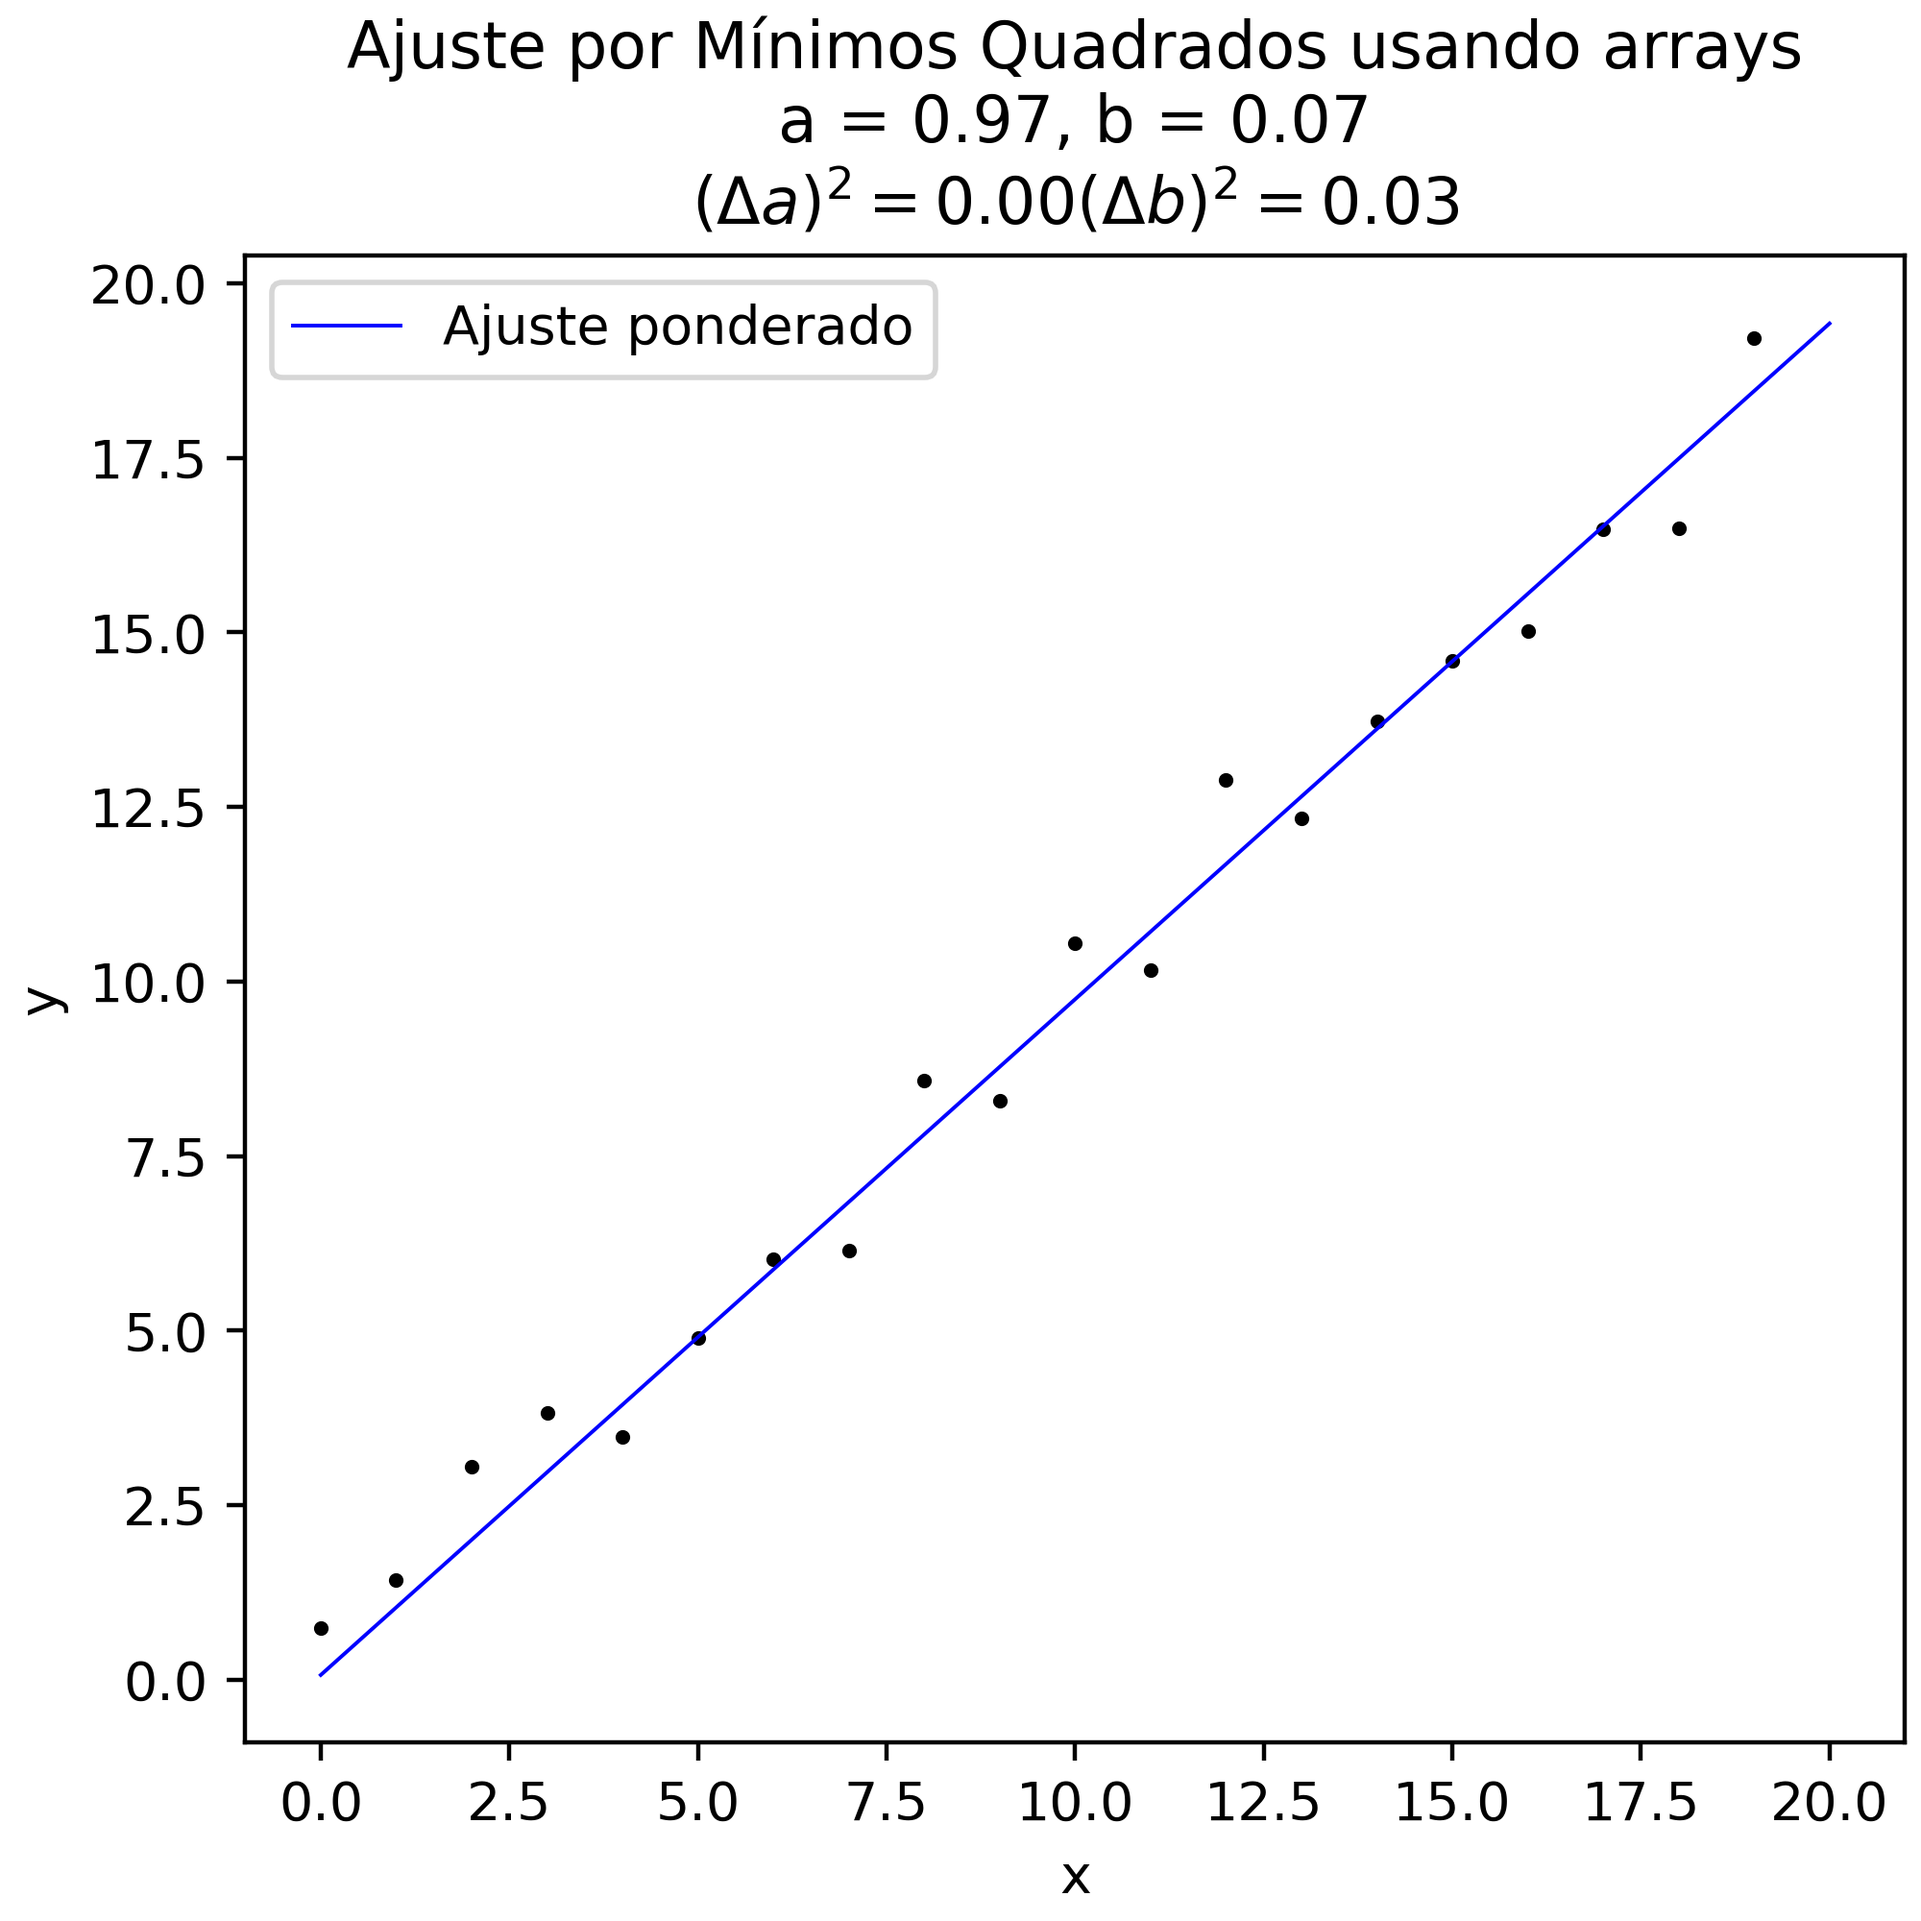
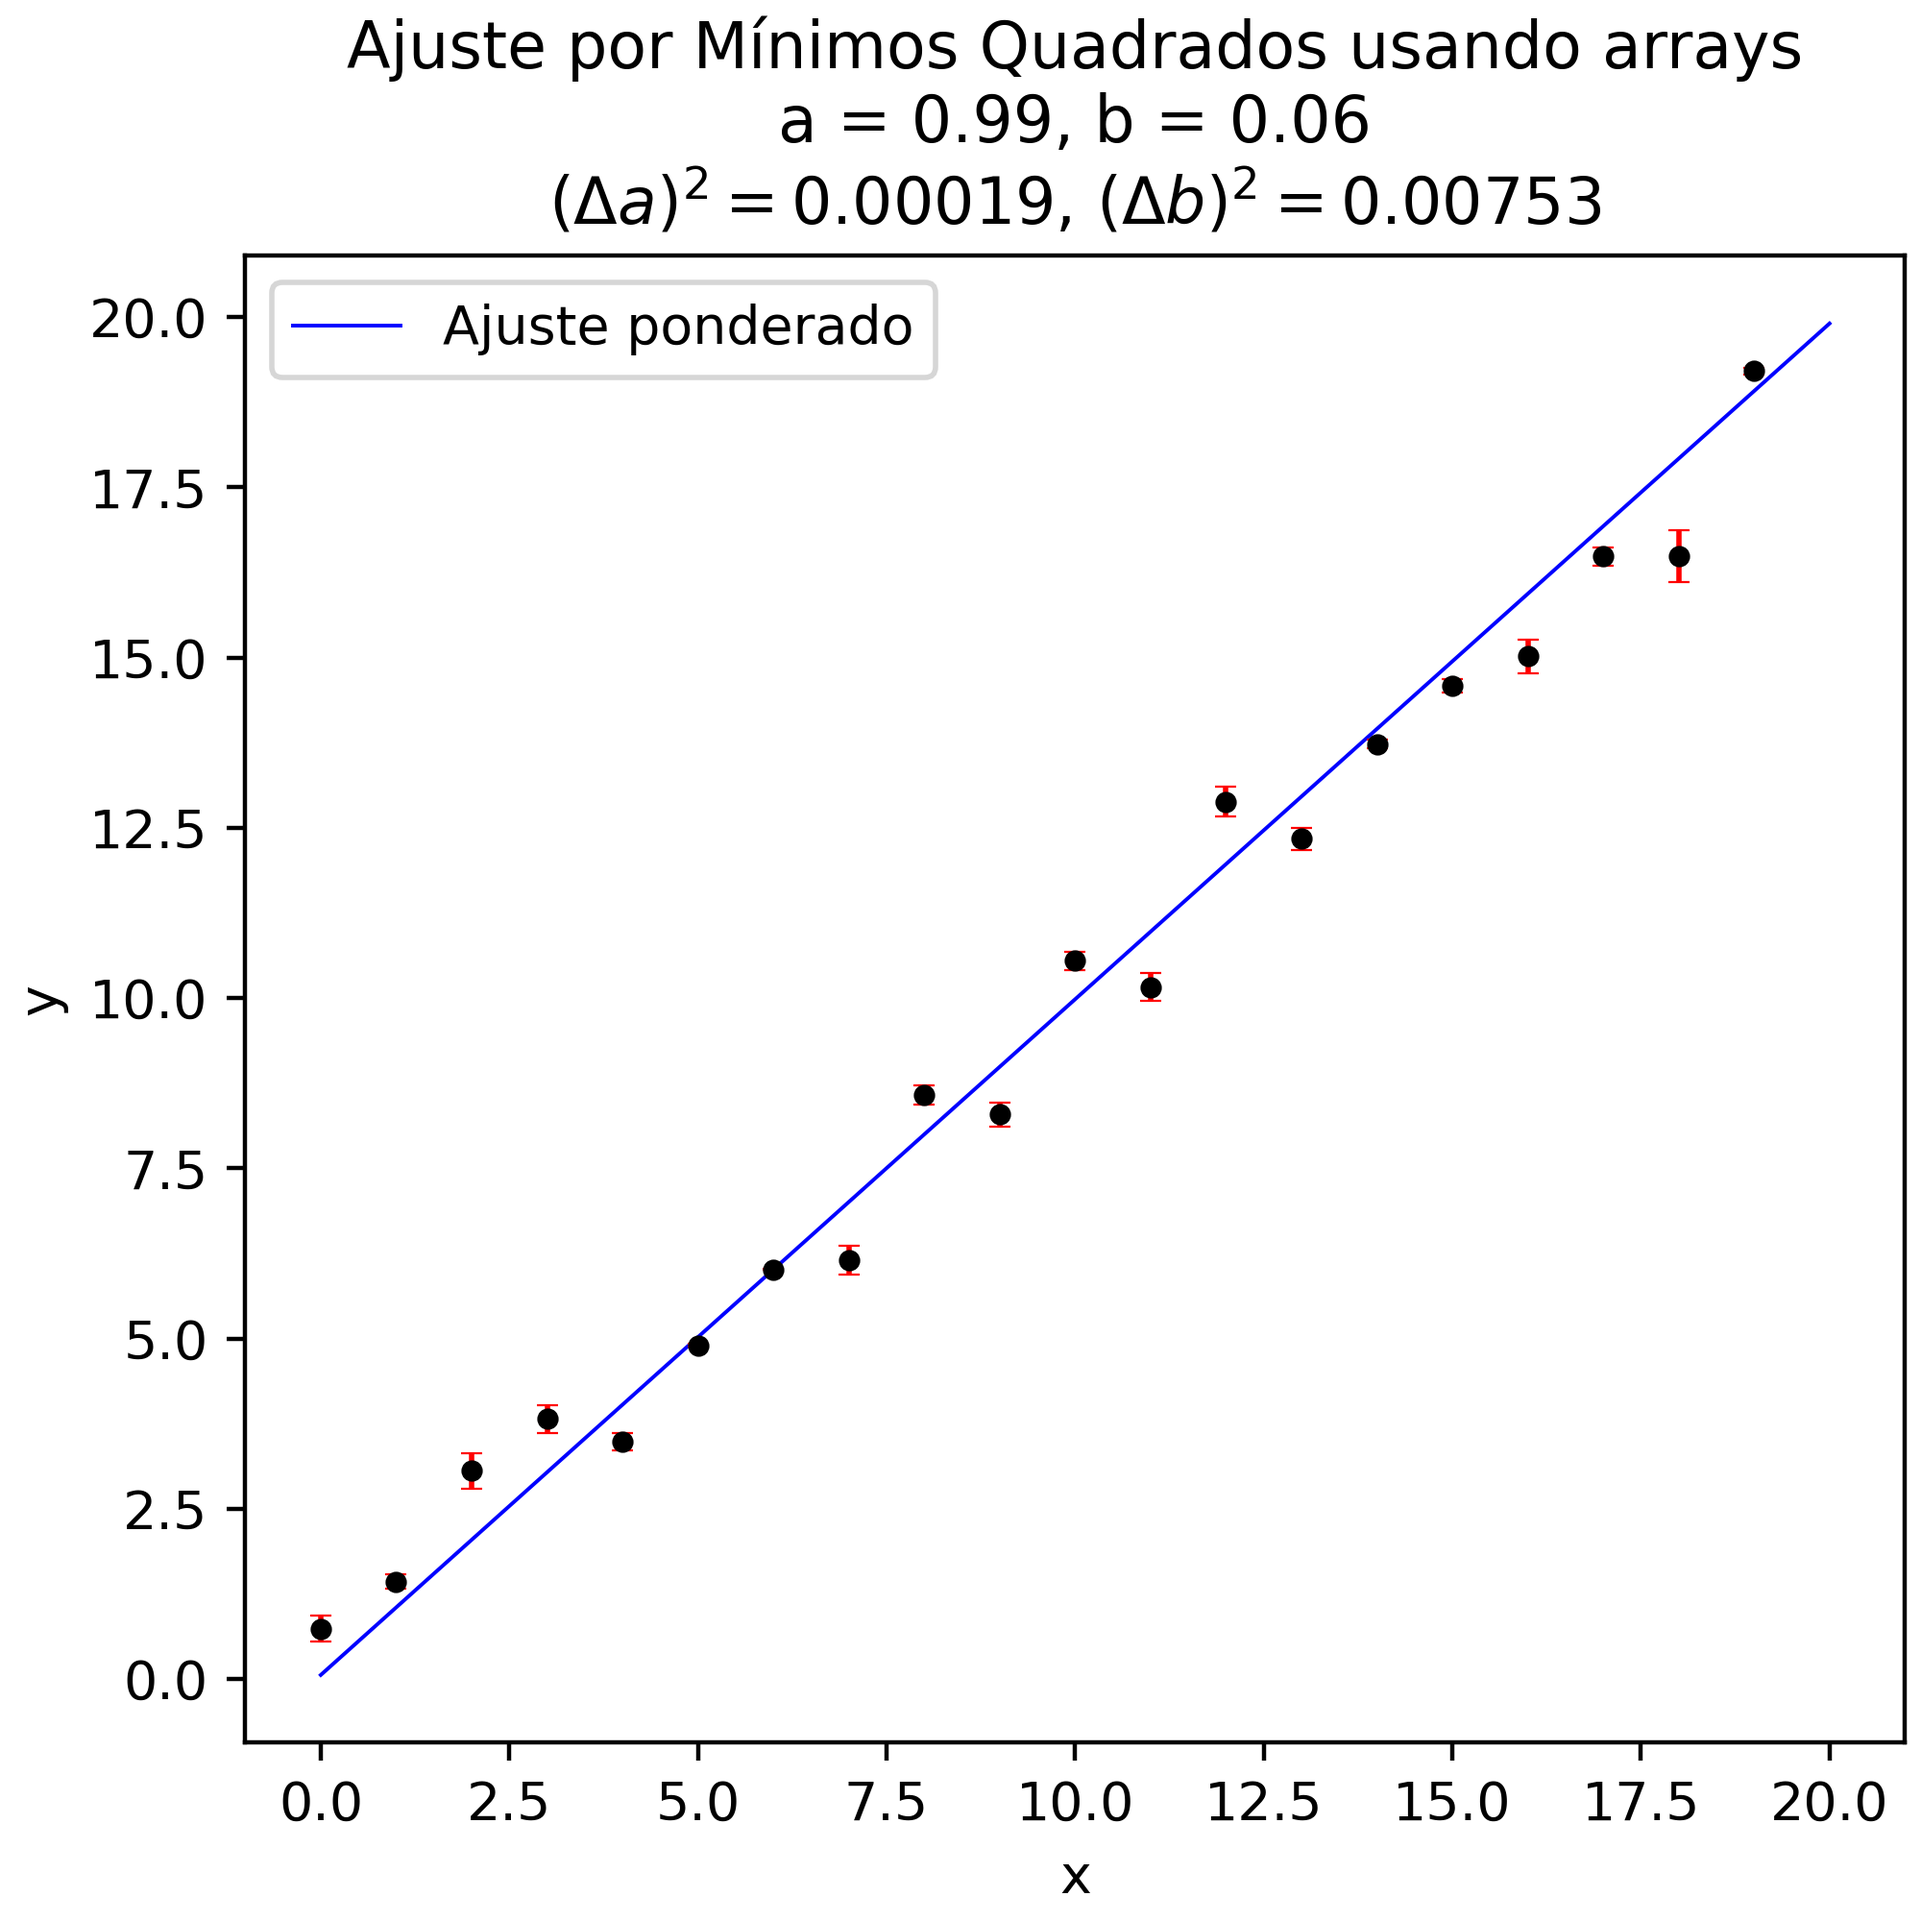
Atualização

diff --git a/atividades/trabalho1/listas-regressao-linear.py b/atividades/trabalho1/listas-regressao-linear.py
@@ -1,27 +1,17 @@
 import numpy as np
 import matplotlib.pyplot as plt
-
 np.random.seed(666)
-erroy = list(np.random.normal(0, 0.9, 20))
 
-x = list(range(0, 20))
+n = 20
+erroy = list(np.random.normal(0, 0.9, n))
+
+# Dados
+x = list(range(0, n))
 y = list(i + erroy[i] for i in x)
-n = len(x)
+deltay = list(abs(erroy[i])/4 for i in range(n))
 
-# O 'm' no nome significa a média dessas grandezas
-xm = sum(x)/n
-ym = sum(y)/n
-x2m = sum(list(x[i]**2 for i in range(n)))/n
-xym = sum(list(x[i]*y[i] for i in range(n)))/n
-delta = (x2m*n) - (xm*xm)
-
-# a = coeficiente angular
-a = ((xym*n) - (xm*ym))/delta
-# b = coeficiente linear
-b = ((x2m*ym) - (xym*xm))/delta
-
-# Chi^2 e as quantidades ponderadas
-w = list((y[i] - a*x[i] - b)**(-2) for i in range(n))
+# Definição de quantidades ponderadas
+w = list(deltay[i]**(-2) for i in range(n))
 wm = sum(w)/n
 xwm = sum(list(x[i]*w[i] for i in range(n)))/n
 x2wm = sum(list((x[i]**2)*w[i] for i in range(n)))/n
@@ -37,23 +27,24 @@ bpond = (ywm*x2wm - xywm*xwm)/deltapond
 xpond = list(0 + (0.1*i) for i in range(201))
 ypond = list(apond*xpond[i] + bpond for i in range(len(xpond)))
 
+# Erro dos coeficientes
 deltaa2 = wm/deltapond
 deltab2 = x2wm/deltapond
 
 fig, ax = plt.subplots(1, 1, figsize=(5, 5), layout='constrained')
 
-plt.scatter(x, y, s=3, c='k', zorder=3)
+plt.errorbar(x, y, yerr=deltay, ecolor='r', fmt='.k', elinewidth=1, capsize=2, capthick=0.4, zorder=3)
 plt.plot(xpond, ypond, 'b', linewidth=0.7, label='Ajuste ponderado', zorder=2)
 plt.plot()
 plt.legend()
-plt.title('Ajuste por Mínimos Quadrados usando listas\n'+f'a = {apond:.2f}, b = {bpond:.2f}\n'+r'$(\Delta a)^2 = $'+f'{deltaa2:2f}, '+r'$(\Delta b)^2 = $'+f'{deltab2:.2f}')
+plt.title('Ajuste por Mínimos Quadrados usando listas\n'+f'a = {apond:.2f}, b = {bpond:.2f}\n'+r'$(\Delta a)^2 = $'+f'{deltaa2:.5f}, '+r'$(\Delta b)^2 = $'+f'{deltab2:.5f}')
 plt.xlabel('x')
 plt.ylabel('y')
 plt.savefig('ajuste-listas.png', dpi=400)
 
 f = open('dados-trabalho1.csv', 'w')
-f.write('x,y,w_i\n')
+f.write('x,y,y_err\n')
 for i in range(n):
-    f.write(f'{x[i]},{y[i]},{w[i]}\n')
+    f.write(f'{x[i]},{y[i]},{deltay[i]}\n')
 f.close()
 

diff --git a/atividades/trabalho1/arrays-regressao-linear.py b/atividades/trabalho1/arrays-regressao-linear.py
@@ -1,27 +1,16 @@
 import matplotlib.pyplot as plt
 import numpy as np
-
 np.random.seed(666)
-erroy = np.random.normal(0, 0.9, 20)
 
-x = np.arange(0, 20, 1)
+n = 20
+erroy = np.random.normal(0, 0.9, n)
+
+x = np.arange(0, n, 1)
 y = x + erroy
-n = len(x)
+deltay = abs(erroy/4)
 
-# Definição das médias
-xm = sum(x)/n
-ym = sum(y)/n
-x2m = sum(x**2)/n
-xym = sum(x*y)/n
-delta = (x2m*n) - (xm*xm)
-
-# Coeficiente angular
-a = ((xym*n) - (xm*ym))/delta
-# Coeficiente linear
-b = ((x2m*ym) - (xym*xm))/delta
-
-# Definição das médias ponderadas
-w = (y - a*x - b)**(-2)
+# Definição das quantidades ponderadas
+w = deltay**(-2)
 wm = sum(w)/n
 xwm = sum(x*w)/n
 x2wm = sum((x**2)*w)/n
@@ -37,17 +26,18 @@ bpond = (ywm*x2wm - xywm*xwm)/deltapond
 xpond = np.linspace(0, 20, 100)
 ypond = apond*xpond + bpond
 
+# Erro dos coeficientes
 deltaa2 = wm/deltapond
 deltab2 = x2wm/deltapond
 
 fig, ax = plt.subplots(1, 1, figsize=(5, 5), layout='constrained')
 
-plt.scatter(x, y, s=3, c='k', zorder=2)
+plt.errorbar(x, y, yerr=deltay, ecolor='r', fmt='.k', elinewidth=1, capsize=2, capthick=0.4, zorder=3)
 plt.plot(xpond, ypond, 'b', linewidth=0.7, label='Ajuste ponderado', zorder=1)
 plt.plot()
 plt.legend()
 plt.xlabel('x')
 plt.ylabel('y')
-plt.title('Ajuste por Mínimos Quadrados usando arrays\n'+f'a = {apond:.2f}, b = {bpond:.2f}\n'+r'$(\Delta a)^2 = $'+f'{deltaa2:.2f}'+r'$(\Delta b)^2 = $'+f'{deltab2:.2f}')
+plt.title('Ajuste por Mínimos Quadrados usando arrays\n'+f'a = {apond:.2f}, b = {bpond:.2f}\n'+r'$(\Delta a)^2 = $'+f'{deltaa2:.5f}, '+r'$(\Delta b)^2 = $'+f'{deltab2:.5f}')
 plt.savefig('ajuste-arrays.png', dpi=400)
 

diff --git a/atividades/trabalho1/pandas-regressao-linear.py b/atividades/trabalho1/pandas-regressao-linear.py
@@ -6,22 +6,11 @@ dt = pd.read_csv('dados-trabalho1.csv')
 
 x = dt['x']
 y = dt['y']
+deltay = dt['y_err']
 n = len(dt.index)
 
-# Definição das médias
-xm = x.mean()
-ym = y.mean()
-x2m = (x**2).mean()
-xym = (x*y).mean()
-delta = (x2m*n) - (xm*xm)
-
-# Coeficiente angular
-a = ((xym*n) - (xm*ym))/delta
-# Coeficiente linear
-b = ((x2m*ym) - (xym*xm))/delta
-
-# Definição das médias ponderadas
-w = (y - a*x - b)**(-2)
+# Definição das quantidades ponderadas
+w = deltay**(-2)
 wm = w.mean()
 xwm = (x*w).mean()
 x2wm = ((x**2)*w).mean()
@@ -37,17 +26,18 @@ bpond = (ywm*x2wm - xywm*xwm)/deltapond
 xpond = np.linspace(0, 20, 100)
 ypond = apond*xpond + bpond
 
+# Erros dos coeficientes
 deltaa2 = wm/deltapond
 deltab2 = x2wm/deltapond
 
 fig, ax = plt.subplots(1, 1, figsize=(5, 5), layout='constrained')
 
-plt.scatter(x, y, s=3, c='k', zorder=2)
+plt.errorbar(x, y, yerr=deltay, ecolor='r', fmt='.k', elinewidth=1, capsize=2, capthick=0.4, zorder=3)
 plt.plot(xpond, ypond, 'b', linewidth=0.7, label='Ajuste ponderado', zorder=1)
 plt.plot()
 plt.legend()
 plt.xlabel('x')
 plt.ylabel('y')
-plt.title('Ajuste por Mínimos Quadrados usando pandas\n'+f'a = {apond:.2f}, b = {bpond:.2f}\n'+r'$(\Delta a)^2 = $'+f'{deltaa2:.2f}'+r'$(\Delta b)^2 = $'+f'{deltab2:.2f}')
+plt.title('Ajuste por Mínimos Quadrados usando pandas\n'+f'a = {apond:.2f}, b = {bpond:.2f}\n'+r'$(\Delta a)^2 = $'+f'{deltaa2:.5f}, '+r'$(\Delta b)^2 = $'+f'{deltab2:.5f}')
 plt.savefig('ajuste-pandas.png', dpi=400)
 
